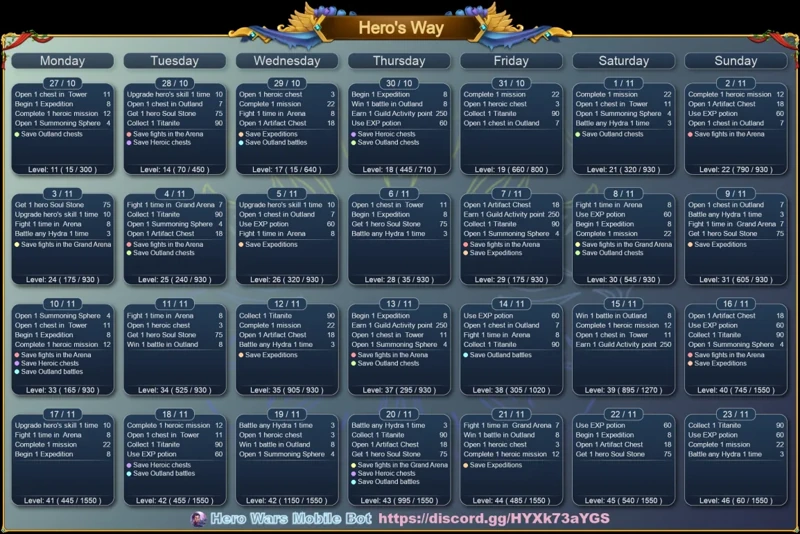
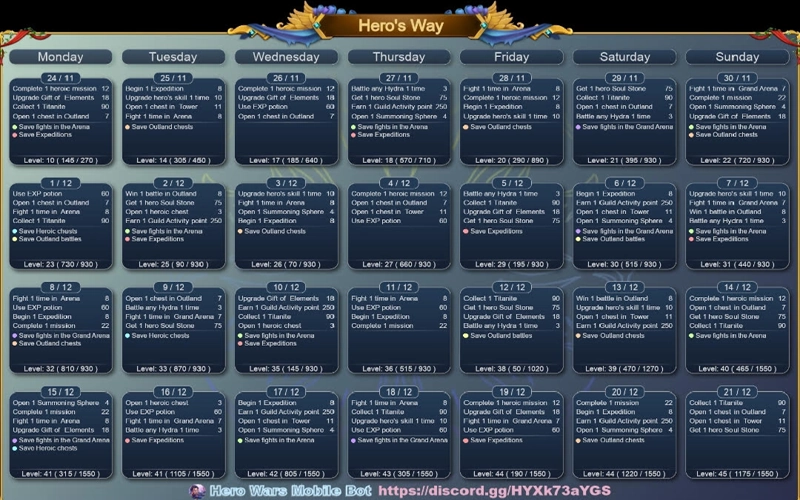
heroway

diff --git a/Documentos/nav13-pt-v2.js b/Documentos/nav13-pt-v2.js
@@ -7,7 +7,7 @@ document.addEventListener('DOMContentLoaded', () => {
 <ul>             
 
 <div class="dropdown">
-    <button class="dropbtn">Análises de Gameplay</button>
+    <button class="dropbtn"><span class="notranslate">Análises de Gameplay</button>
     <div class="dropdown-content"><br>
         
     <a href="https://alexandregames.com/gaming-guide/review/appgallery-review-pt.html">Como Instalar o AppGallery no Android para descontos em Hero Wars</a>
@@ -22,7 +22,7 @@ document.addEventListener('DOMContentLoaded', () => {
 
 
 <div class="dropdown">
-    <button class="dropbtn">Hero Wars Alliance</button>
+    <button class="dropbtn"><span class="notranslate">Hero Wars Alliance</button>
     <div class="dropdown-content"><br>
         
     <a href="https://alexandregames.com/HeroWars.html">HWA - Início</a>  
@@ -46,7 +46,7 @@ document.addEventListener('DOMContentLoaded', () => {
 
     <div class="dropdown">
 
-<button class="dropbtn">Hero Wars: Dominion Era</button>
+<button class="dropbtn"><span class="notranslate">Hero Wars: Dominion Era</button>
 <div class="dropdown-content"> <br>  
 <a href="https://alexandregames.com/hero-wars-dominion-era/menu-hero-wars-dominion-era-pt.html">HWDE - Home</a>
 <a href="https://alexandregames.com/hero-wars-dominion-era/menu/calendar-hwde-pt.html">Calendário & Eventos</a>
@@ -72,7 +72,7 @@ document.addEventListener('DOMContentLoaded', () => {
 </div>  
     
     <div class="dropdown">
-        <button class="dropbtn">Mobile Legends</button>
+        <button class="dropbtn"><span class="notranslate">Mobile Legends</button>
         <div class="dropdown-content"><br>
             
     <a href="https://alexandregames.com/MobileLegends.html">Guia de Heróis</a>
@@ -95,13 +95,13 @@ document.addEventListener('DOMContentLoaded', () => {
 <div class="dropdown">
 <button class="dropbtn">Mais Jogos</button>
 <div class="dropdown-content"><br>
-    <a href="https://alexandregames.com/top-troops/top-troops-pt-home.html">Top Troops</a>
-    <a href="https://alexandregames.com/throne-and-liberty/menu-throne-and-liberty/menu-throne-and-liberty-pt.html">Throne and Liberty</a>
-    <a href="https://alexandregames.com/ragnarok-origin/codigos-ragnarok-br.html">Ragnarok ROO</a>   
-    <a href="https://alexandregames.com/gaming-guide/review/echoes-of-eternity-game-review-pt.html">Echoes of Eternity</a>
-    <a href="https://alexandregames.com/gaming-guide/review/path-of-exile-2-pt.html">Path of Exile2 - Tier List</a>
-    <a href="https://alexandregames.com/gaming-guide/review/tales-of-wind-review-pt.html">Tales of Wind: RR</a>
-    <a href="https://alexandregames.com/gaming-guide/review/the-dragon-odyssey-gameplay-pt.html">The Dragon Odyssey</a>
+    <a href="https://alexandregames.com/top-troops/top-troops-pt-home.html"><span class="notranslate">Top Troops</a>
+    <a href="https://alexandregames.com/throne-and-liberty/menu-throne-and-liberty/menu-throne-and-liberty-pt.html"><span class="notranslate">Throne and Liberty</a>
+    <a href="https://alexandregames.com/ragnarok-origin/codigos-ragnarok-br.html"><span class="notranslate">Ragnarok ROO</a>   
+    <a href="https://alexandregames.com/gaming-guide/review/echoes-of-eternity-game-review-pt.html"><span class="notranslate">Echoes of Eternity</a>
+    <a href="https://alexandregames.com/gaming-guide/review/path-of-exile-2-pt.html"><span class="notranslate">Path of Exile2 - Tier List</a>
+    <a href="https://alexandregames.com/gaming-guide/review/tales-of-wind-review-pt.html"><span class="notranslate">Tales of Wind: RR</a>
+    <a href="https://alexandregames.com/gaming-guide/review/the-dragon-odyssey-gameplay-pt.html"><span class="notranslate">The Dragon Odyssey</a>
     <a>_____________</a>
     <a href="https://alexandregames.com/Documentos/Contato.html">Contato</a>
        <a href="https://alexandregames.com/Documentos/Sobre.html">Sobre Nós</a>

diff --git a/hero-wars-alliance/event-hwa/herosway-pt-hwa.html b/hero-wars-alliance/event-hwa/herosway-pt-hwa.html
@@ -5,7 +5,7 @@
 <meta http-equiv="X-UA-Compatible" content="IE=edge">
 <meta name="viewport" content="width=device-width, initial-scale=1.0">
 <meta property="article:published_time" content="2024-09-05T21:45-03:00" />
-<meta property="article:modified_time" content="2025-11-06T21:51-03:00" />
+<meta property="article:modified_time" content="2025-11-24T20:59-03:00" />
 <link rel="stylesheet" href="../../estilo13.css">
 
 <title>Lista Diária do Caminho do Herói para Jogadores de Hero Wars Alliance</title>
@@ -168,7 +168,7 @@ em ingles coloque todas as missoes do evento em html
 
     <p>O evento "Caminho do Herói" em Hero Wars oferece aos jogadores uma variedade de missões para completar diariamente. Essas tarefas são projetadas para melhorar a jogabilidade, fortalecer os heróis e ajudá-lo a ganhar recompensas valiosas, como recursos, equipamentos e melhorias para os heróis. Com duração de 30 dias, este evento apresenta novos desafios diariamente, incentivando a participação ativa em diversos aspectos do jogo, incluindo batalhas, aprimoramento de elementos e coleta de moedas valiosas dentro do jogo.</p>
 
-   <h2>Caminho do Herói de  Outubro a Novembro</h2>
+   <h2>Caminho do Herói de  Novembro a Dezembro 2025</h2>
 <figure class="img-banner"> 
     <picture>
         <!-- Para telas grandes (PC) de 80kb a 150kb -->
@@ -277,52 +277,7 @@ em ingles coloque todas as missoes do evento em html
 </section>
 
 
-<!----------- Video 1 do Youtube padrao menor antigo -
-<h2>Sugestões de Vídeo:</h2>
 
-<section>
-  <div class="video-container">
-    <div class="video-wrapper">
-        <iframe class="video-iframe"
-          loading="lazy"
-          srcdoc="<style>
-            * {
-              padding: 0;
-              margin: 0;
-              overflow: hidden;
-            }
-            img, svg {
-              position: absolute;
-              width: 100%;
-              top: 0;
-              bottom: 0;
-              margin: auto;
-            }
-            svg {
-              filter: drop-shadow(1px 1px 10px hsl(206.5, 70.7%, 8%));
-              transition: all 250ms ease-in-out;
-            }
-            body:hover svg {
-              filter: drop-shadow(1px 1px 10px hsl(206.5, 0%, 10%));
-              transform: scale(1.2);
-            }
-          </style>
-       <a href='https://www.youtube.com/embed/FR-B9VuqybI?autoplay=1'>
-            <img src='https://img.youtube.com/vi/FR-B9VuqybI/hqdefault.jpg' alt='Video: Infinite gold in dungeon Hero Wars Alliance.(subtitles)' title='###' >
-            <svg xmlns='http://www.w3.org/2000/svg' width='64' height='64' viewBox='0 0 24 24' fill='none' stroke='red' stroke-width='2' stroke-linecap='round' stroke-linejoin='round' class='feather feather-play-circle'><circle cx='12' cy='12' r='10'></circle><polygon points='10 8 16 12 10 16 10 8'></polygon></svg>
-          </a>
-          "
-          src="https://www.youtube.com/embed/FR-B9VuqybI" 
-        title="Como Derrotar Aidan e Kayla"
-        frameborder="0"
-        allow="accelerometer; autoplay; clipboard-w/rite; encrypted-media; gyroscope; picture-in-picture" 
-        notallowfullscreen>
-      </iframe>
-    </div>
-    <figcaption class="video-caption">Vídeo: Como Derrotar Aidan e Kayla, Hero Wars Alliance</figcaption>
-  </div> 
-</section> 
---------->
     <!-------- Sugestões para os visitantes ---------->
 
     <h2>Explore novas habilidades com nossos heróis em destaque!</h2>

diff --git a/hero-wars-alliance/event-hwa/herosway-en-hwa.html b/hero-wars-alliance/event-hwa/herosway-en-hwa.html
@@ -7,7 +7,7 @@
 <meta name="viewport" content="width=device-width, initial-scale=1.0">
 <meta http-equiv="X-UA-Compatible" content="IE=edge">
 <meta property="article:published_time" content="2024-09-05T21:45-03:00" />
-<meta property="article:modified_time" content="2025-11-06T21:51-03:00" />
+<meta property="article:modified_time" content="2025-11-24T20:59-03:00" />
 <link rel="stylesheet" href="../../estilo13.css">
 
 <title>Daily Hero's Way Checklist for Hero Wars Alliance Players</title>
@@ -185,7 +185,7 @@ span {
 
 </section>
 
-<h2>Hero’s Way from October to November</h2>
+<h2>Hero’s Way from November to Dezember 2025</h2>
 <figure class="img-banner"> 
     <picture>
         <!-- For large screens (PC) from 80kb to 150kb -->
@@ -270,56 +270,7 @@ span {
 </article>
 
 
- <!----------- Video 1 do Youtube 
- <h2>Video suggestion</h2>
-
-<section>
-    
-    
-    <div class="video-container">
-        <div class="video-wrapper">
-            <iframe class="video-iframe"
-              loading="lazy"
-              srcdoc="<style>
-                * {
-                  padding: 0;
-                  margin: 0;
-                  overflow: hidden;
-                }
-                img, svg {
-                  position: absolute;
-                  width: 100%;
-                  top: 0;
-                  bottom: 0;
-                  margin: auto;
-                }
-                svg {
-                  filter: drop-shadow(1px 1px 10px hsl(206.5, 70.7%, 8%));
-                  transition: all 250ms ease-in-out;
-                }
-                body:hover svg {
-                  filter: drop-shadow(1px 1px 10px hsl(206.5, 0%, 10%));
-                  transform: scale(1.2);
-                }
-              </style>
-        <a href='https://www.youtube.com/embed/rLsRpNbGA1M?autoplay=1'>
-            <img src='https://img.youtube.com/vi/rLsRpNbGA1M/hqdefault.jpg' alt='The 7 best Hero Wars tanks' title='###' >
-            <svg xmlns='http://www.w3.org/2000/svg' width='64' height='64' viewBox='0 0 24 24' fill='none' stroke='red' stroke-width='2' stroke-linecap='round' stroke-linejoin='round' class='feather feather-play-circle'><circle cx='12' cy='12' r='10'></circle><polygon points='10 8 16 12 10 16 10 8'></polygon></svg>
-          </a>
-          "
-          src="https://www.youtube.com/embed/rLsRpNbGA1M" 
-        title="Video: The 7 best Hero Wars tanks, Hero Wars."
-        frameborder="0"
-        allow="accelerometer; autoplay; clipboard-write; encrypted-media; gyroscope; picture-in-picture" 
-        notallowfullscreen>
-      </iframe>
-    </div>
-    <figcaption class="video-caption">Video: The 7 best Hero Wars tanks, Hero Wars. </figcaption>
-  </div> 
-</section> 
----------->
-
-
+ 
     <!-------- Sugestões para os visitantes img 300x260 and English.html---------->
 
 <h2>Explore new skills with our featured heroes!</h2>
